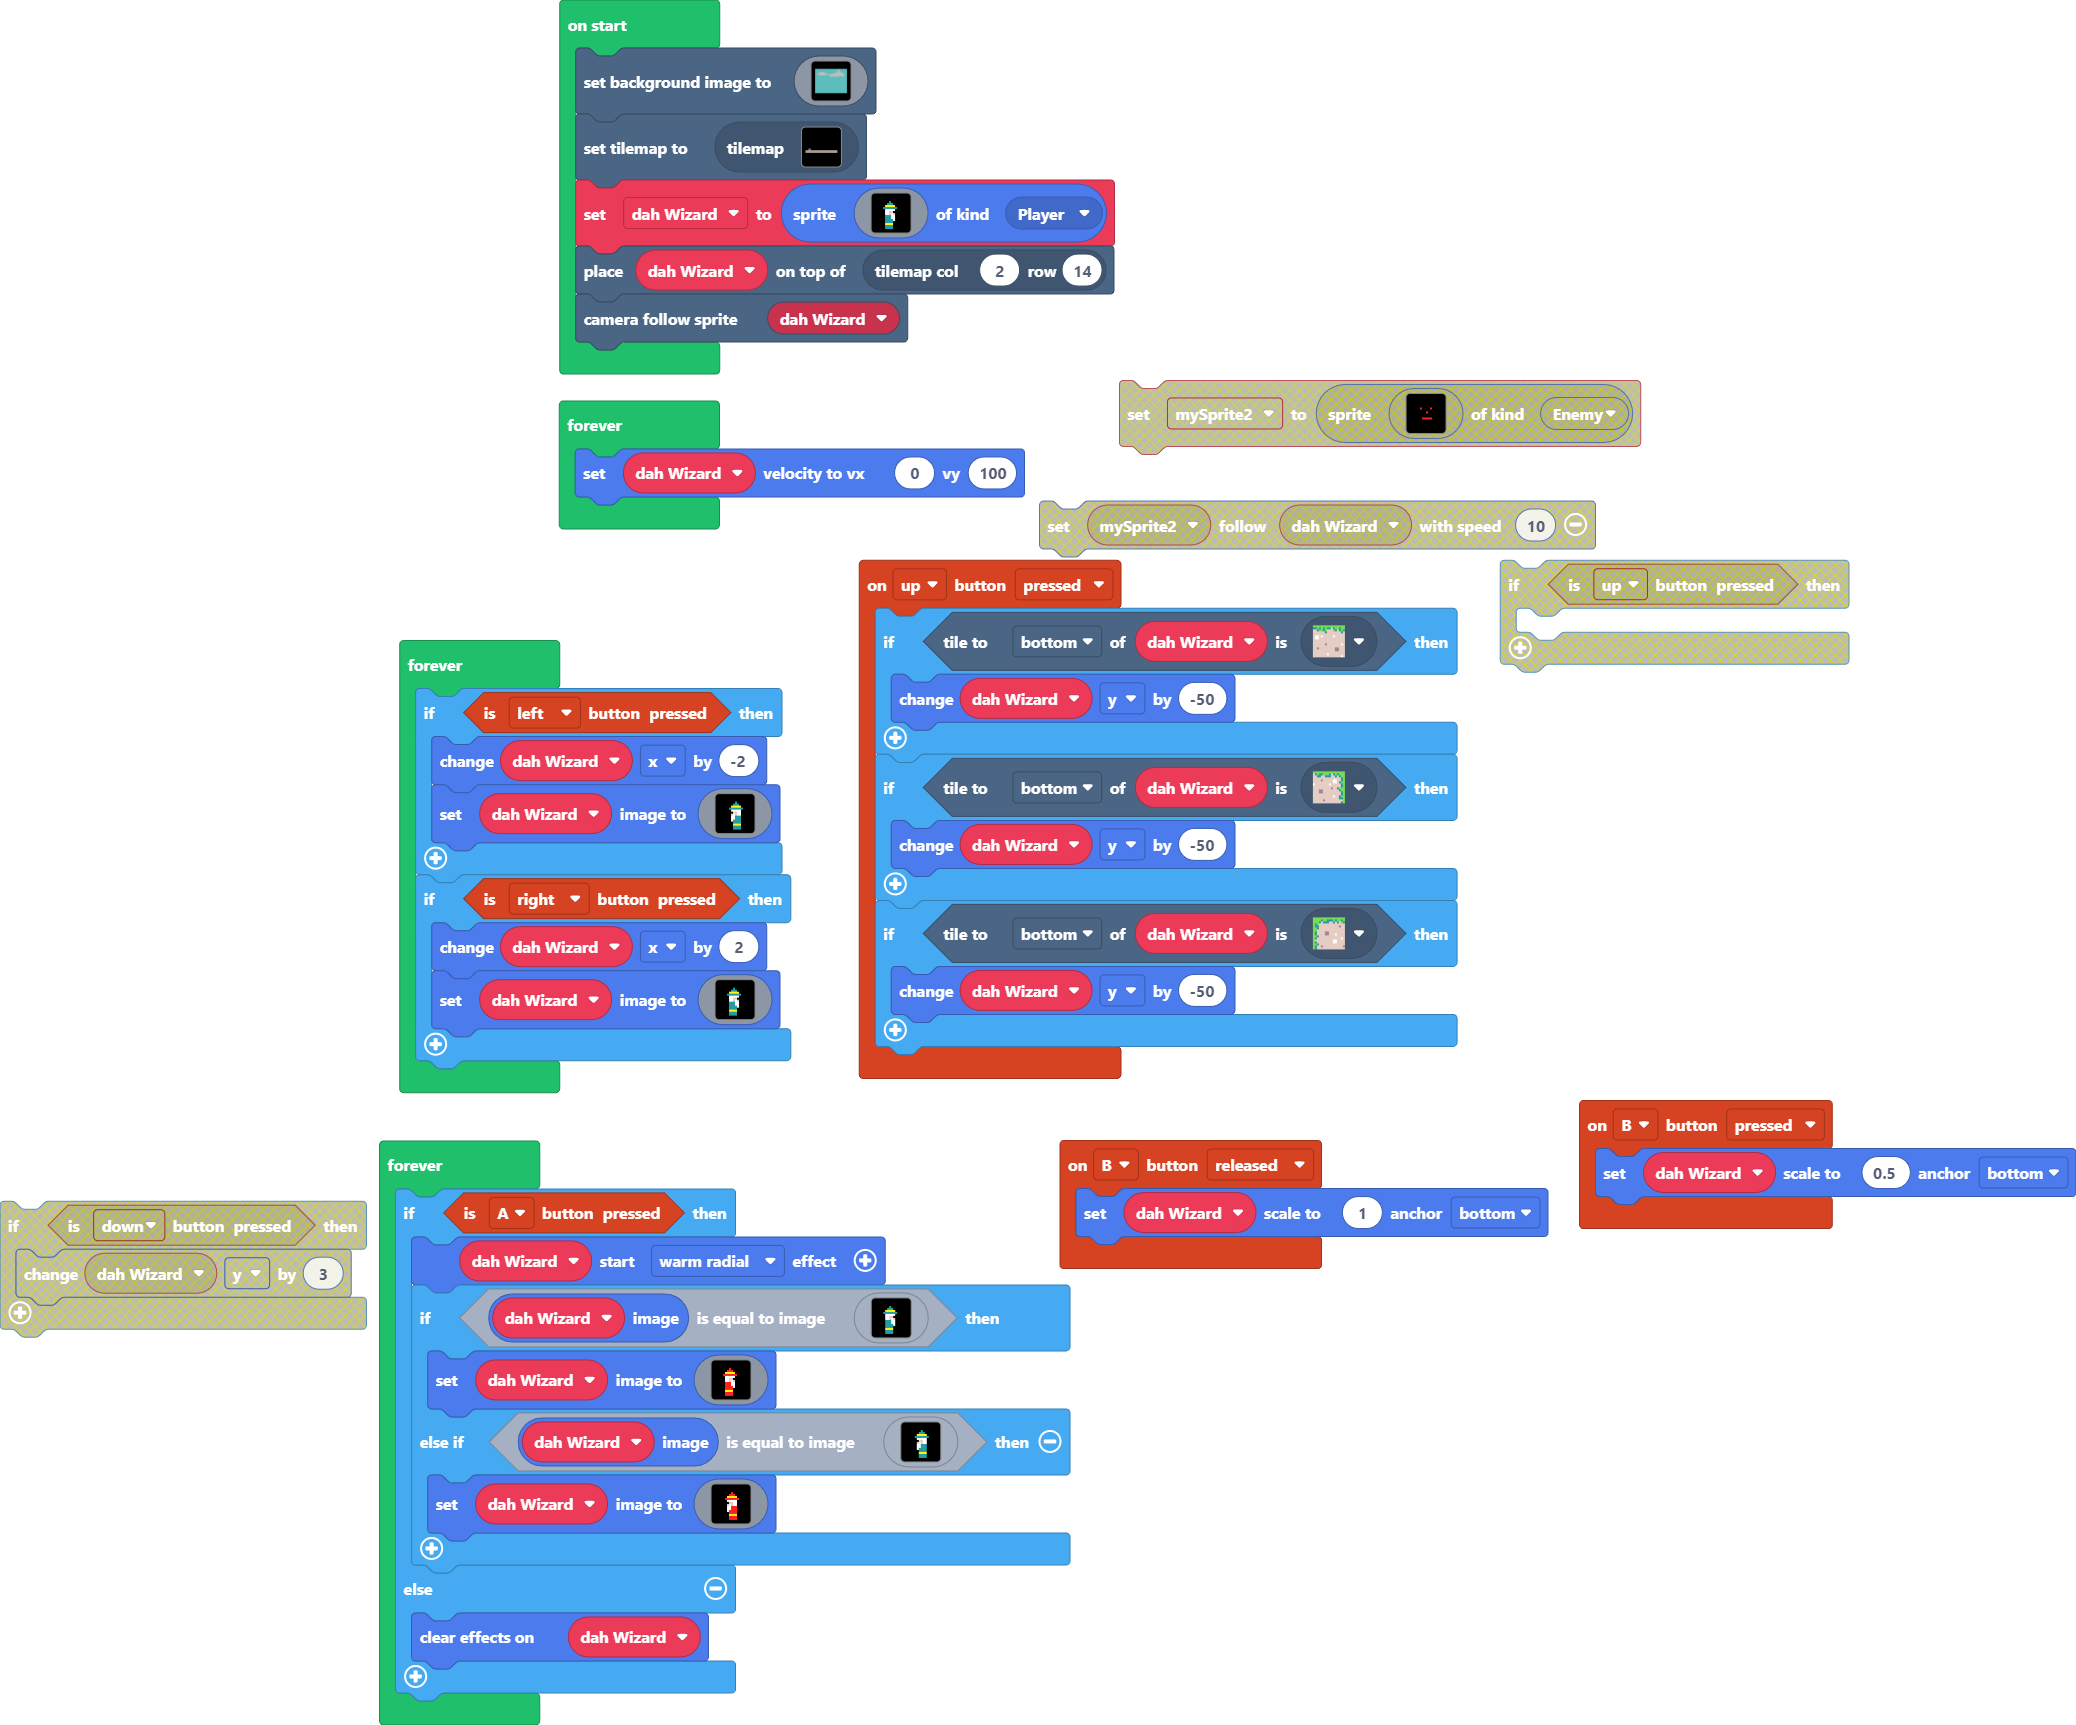
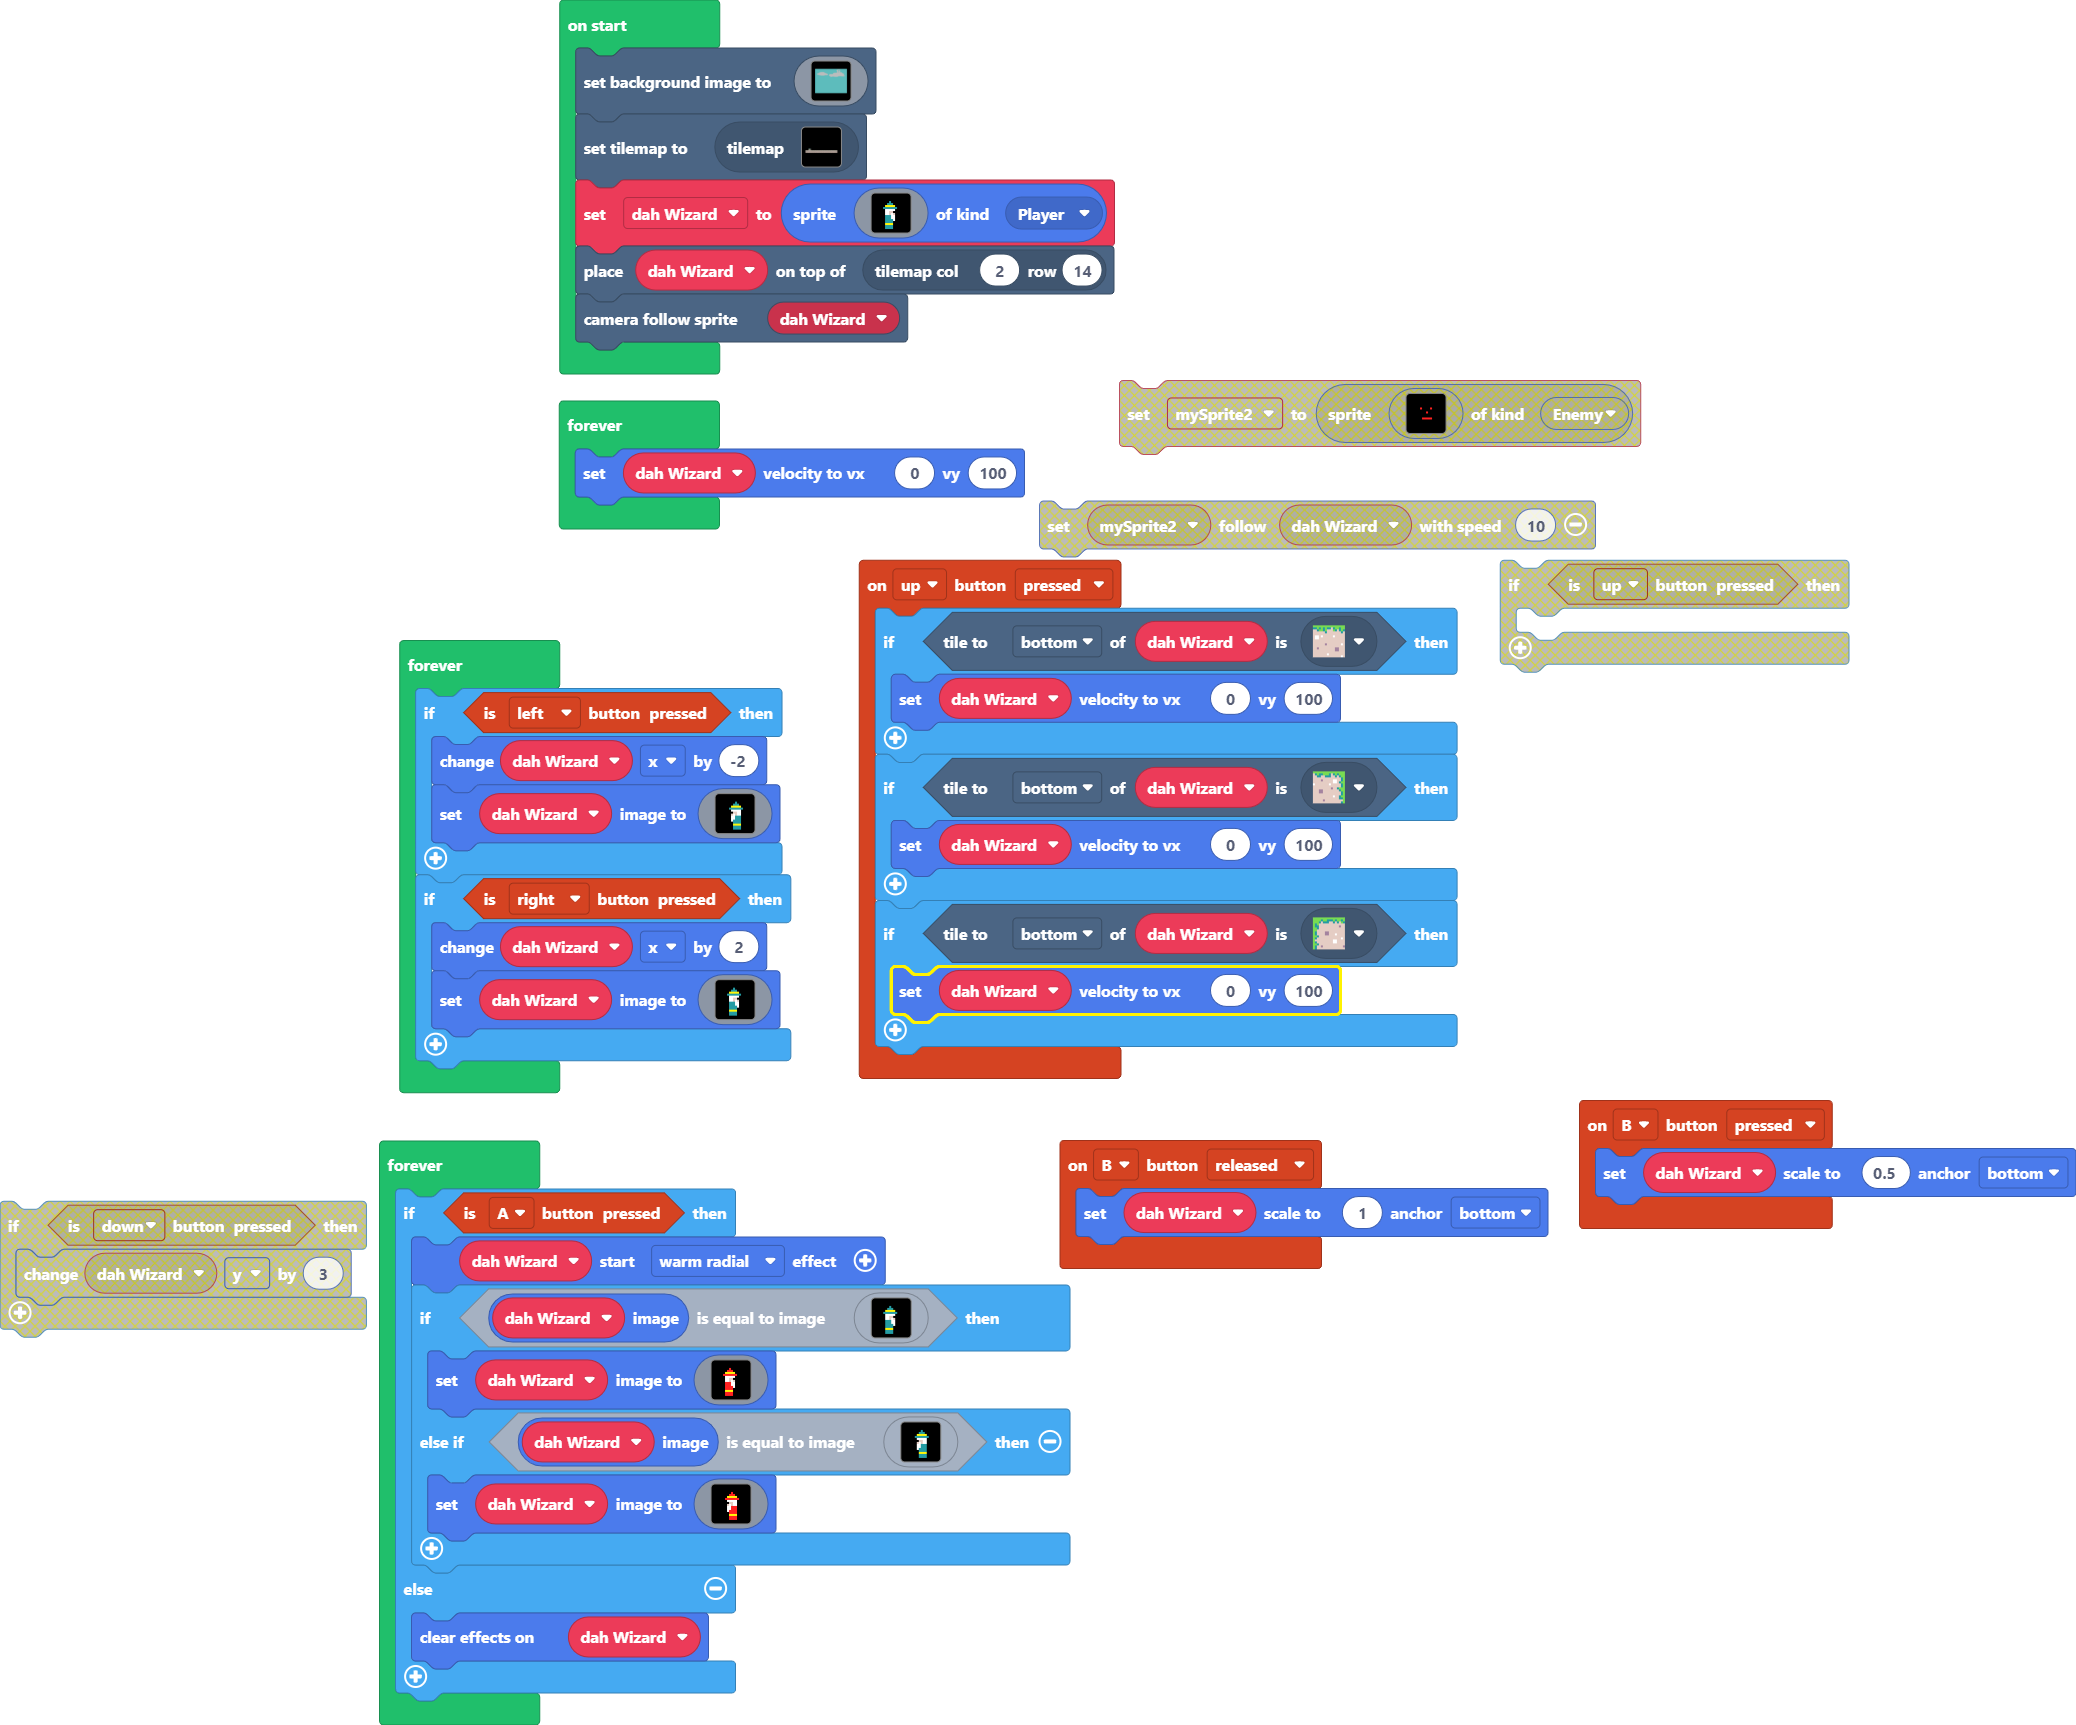
Update main.blocks, main.ts

Changed region(s): [[0.4316, 0.4609, 0.6474, 0.5223], [0.4316, 0.553, 0.6474, 0.6145], [0.4316, 0.3687, 0.6474, 0.4301]]

diff --git a/main.ts b/main.ts
@@ -1,12 +1,12 @@
 controller.up.onEvent(ControllerButtonEvent.Pressed, function () {
     if (dah_Wizard.tileKindAt(TileDirection.Bottom, sprites.castle.tilePath2)) {
-        dah_Wizard.y += -50
+        dah_Wizard.setVelocity(0, 100)
     }
     if (dah_Wizard.tileKindAt(TileDirection.Bottom, sprites.castle.tilePath3)) {
-        dah_Wizard.y += -50
+        dah_Wizard.setVelocity(0, 100)
     }
     if (dah_Wizard.tileKindAt(TileDirection.Bottom, sprites.castle.tilePath1)) {
-        dah_Wizard.y += -50
+        dah_Wizard.setVelocity(0, 100)
     }
 })
 controller.B.onEvent(ControllerButtonEvent.Pressed, function () {
